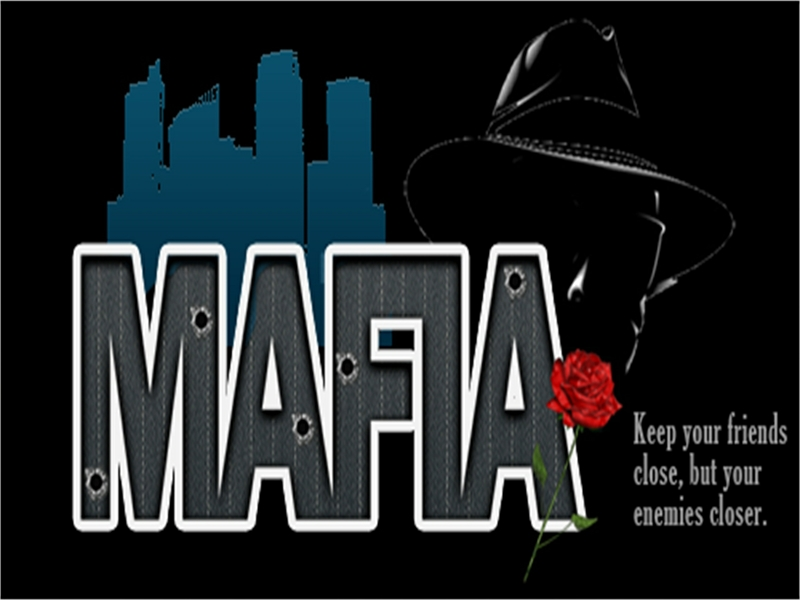
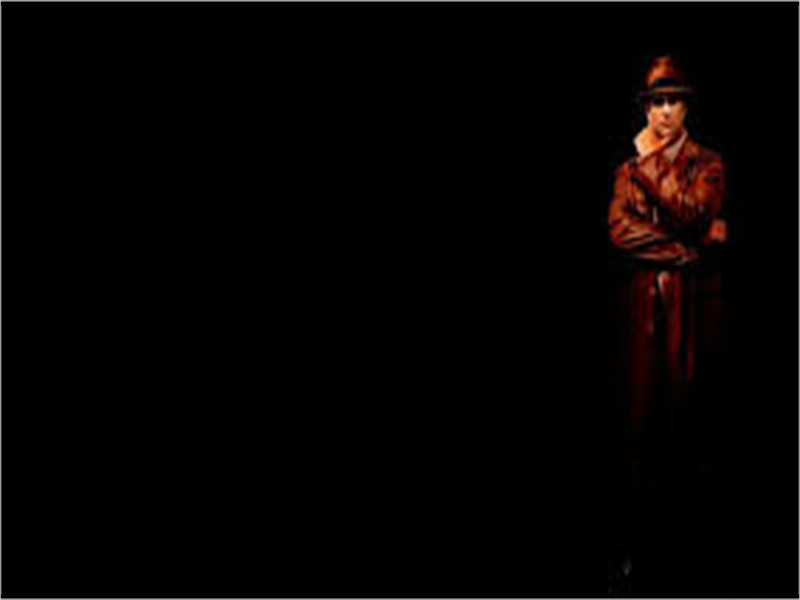
changed controls according to screen size and add new images| deepthi-raghavendra

diff --git a/src/Screens/client/MafiaNightScreen.java b/src/Screens/client/MafiaNightScreen.java
@@ -30,22 +30,23 @@ public class MafiaNightScreen implements MafiaNightView {
 
         panel = mainFrame.createPanel("if.invisionfree.com.jpg");
 
-        JLabel instruction = new JLabel("Select the player whom you want to kill and press Confirm");
+        JLabel instruction = new JLabel("Select the player whom you want to kill "+ "\n" + "and press Confirm");
         instruction.setFont(new Font("Chiller", Font.PLAIN, 40));
         instruction.setForeground(Color.WHITE);
         panel.add(instruction);
-        instruction.setBounds(500, 350, 800, 50);
+        instruction.setBounds(50, 550, 800, 50);
 
         confirm = new JButton("Confirm");
         panel.add(confirm);
-        confirm.setBounds(950, 450, 150, 50);
+        confirm.setBackground(Color.white);
+        confirm.setBounds(500, 250, 150, 50);
         confirm.setEnabled(true);
 
         label = new JLabel("Other Mafias");
         panel.add(label);
         label.setFont(new Font("Chiller", Font.PLAIN, 50));
         label.setForeground(Color.WHITE);
-        label.setBounds(130, 25, 250, 150);
+        label.setBounds(50, 25, 250, 150);
 
         playersDefaultList = new DefaultListModel<String>();
 
@@ -54,13 +55,13 @@ public class MafiaNightScreen implements MafiaNightView {
         playerList.setBackground(Color.GRAY);
         playerList.setForeground(Color.WHITE);
         playerList.setFont(new Font("Comic Sans Ms", Font.PLAIN, 25));
-        playerList.setBounds(100, 130, 250, 400);
+        playerList.setBounds(30, 130, 250, 400);
 
         JLabel nameLabel = new JLabel(controller.getCurrentPlayer().getName() + " - " + controller.getCurrentPlayer().getRole());
         panel.add(nameLabel);
         nameLabel.setFont(new Font("Chiller", Font.PLAIN, 50));
         nameLabel.setForeground(Color.WHITE);
-        nameLabel.setBounds(950, 10, 500, 250);
+        nameLabel.setBounds(500,2, 500, 250);
 
         addButtonListeners();
     }
@@ -84,7 +85,7 @@ public class MafiaNightScreen implements MafiaNightView {
         JRadioButton radioButton;
         buttonGroup = new ButtonGroup();
 
-        int xAxis = 750, yAxis = 450, width = 150, height = 50;
+        int xAxis = 300, yAxis = 150, width = 150, height = 35;
 
         List<Player> players = controller.getPlayers();
         for (Player player : players) {
@@ -99,7 +100,7 @@ public class MafiaNightScreen implements MafiaNightView {
             buttonGroup.add(radioButton);
             panel.add(radioButton);
 
-            yAxis += 80;
+            yAxis += 50;
 
             radioButton.addItemListener(new ItemListener() {
                 @Override

diff --git a/src/Screens/client/JoinGameScreen.java b/src/Screens/client/JoinGameScreen.java
@@ -45,7 +45,7 @@ public class JoinGameScreen implements JoinGameView {
         disconnect = new JButton("Disconnect");
         panel.add(disconnect);
         disconnect.setSize(150, 50);
-        disconnect.setLocation(650, 550);
+        disconnect.setLocation(400, 500);
 
         disconnect.addActionListener(new ActionListener() {
             @Override
@@ -71,10 +71,10 @@ public class JoinGameScreen implements JoinGameView {
         String connectedMessage = "Connected To " + serverName + " as " + playerName;
         connectedToServer = new JLabel(connectedMessage);
         panel.add(connectedToServer);
-        connectedToServer.setFont(new Font("Chiller", Font.PLAIN, 40));
+        connectedToServer.setFont(new Font("Chiller", Font.BOLD, 40));
         connectedToServer.setForeground(Color.red);
         connectedToServer.setSize(500, 100);
-        connectedToServer.setLocation(400, 30);
+        connectedToServer.setLocation(100,5);
 
     }
 

diff --git a/src/Screens/client/ClientDetailsScreen.java b/src/Screens/client/ClientDetailsScreen.java
@@ -60,13 +60,13 @@ public class ClientDetailsScreen implements ClientDetailsView {
         connect = new JButton("Connect");
         panel.add(connect);
         connect.setSize(150, 50);
-        connect.setLocation(400, 500);
+        connect.setLocation(300, 500);
 
 
         cancel = new JButton("Cancel");
         panel.add(cancel);
         cancel.setSize(150, 50);
-        cancel.setLocation(600, 500);
+        cancel.setLocation(500, 500);
 
         addButtonHandlers();
     }
@@ -86,7 +86,7 @@ public class ClientDetailsScreen implements ClientDetailsView {
         panel.remove(statusLabel);
         statusLabel = new JLabel(message);
         panel.add(statusLabel);
-        statusLabel.setBounds(400, 400, 1000, 150);
+        statusLabel.setBounds(200, 400, 1000, 150);
         statusLabel.setForeground(Color.red);
         statusLabel.setFont(new Font("Comic Sans Ms", Font.PLAIN, 25));
     }

diff --git a/src/Screens/server/WaitForPlayersScreen.java b/src/Screens/server/WaitForPlayersScreen.java
@@ -44,12 +44,12 @@ public class WaitForPlayersScreen implements WaitForPlayersView {
 
         startGame = new JButton("Start Game");
         panel.add(startGame);
-        startGame.setBounds(600, 400, 150, 50);
+        startGame.setBounds(400, 400, 150, 50);
         startGame.setEnabled(false);
 
         stopServer = new JButton("Stop server");
         panel.add(stopServer);
-        stopServer.setBounds(600, 500, 150, 50);
+        stopServer.setBounds(400, 500, 150, 50);
         addButtonHandlers();
     }
 

diff --git a/src/Screens/server/GameStartedScreen.java b/src/Screens/server/GameStartedScreen.java
@@ -36,7 +36,7 @@ public class GameStartedScreen implements GameStartedView {
         panel.add(gameStartedLabel);
         gameStartedLabel.setFont(new Font("Chiller", Font.PLAIN, 50));
         gameStartedLabel.setForeground(Color.WHITE);
-        gameStartedLabel.setBounds(950, 450, 250, 150);
+        gameStartedLabel.setBounds(450, 450, 250, 150);
 
         label = new JLabel("Player Roles");
         panel.add(label);

diff --git a/src/Screens/HomeScreen.java b/src/Screens/HomeScreen.java
@@ -71,6 +71,6 @@ public class HomeScreen implements HomeView {
         label.setFont(new Font("Chiller", Font.PLAIN, 50));
         label.setForeground(Color.RED);
         label.setSize(600, 150);
-        label.setLocation(100, 550);
+        label.setLocation(100,150);
     }
 }

diff --git a/src/Screens/controls/MainFrame.java b/src/Screens/controls/MainFrame.java
@@ -23,6 +23,7 @@ public class MainFrame {
         ImagePanel panel = new ImagePanel(image);
         panel.setLayout(null);
         frame.getContentPane().add(panel);
+//        frame.setResizable(false);
         frame.pack();
         return panel;
     }
